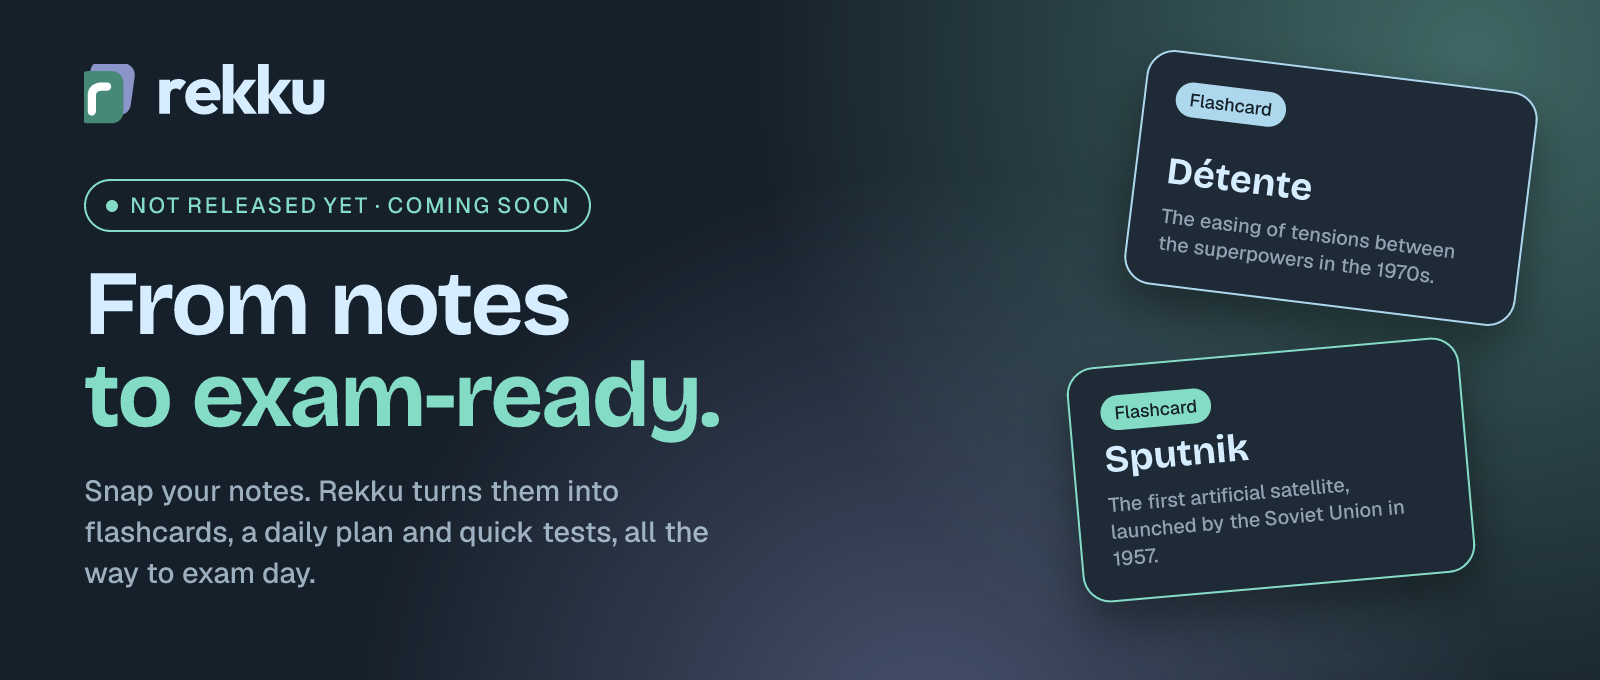
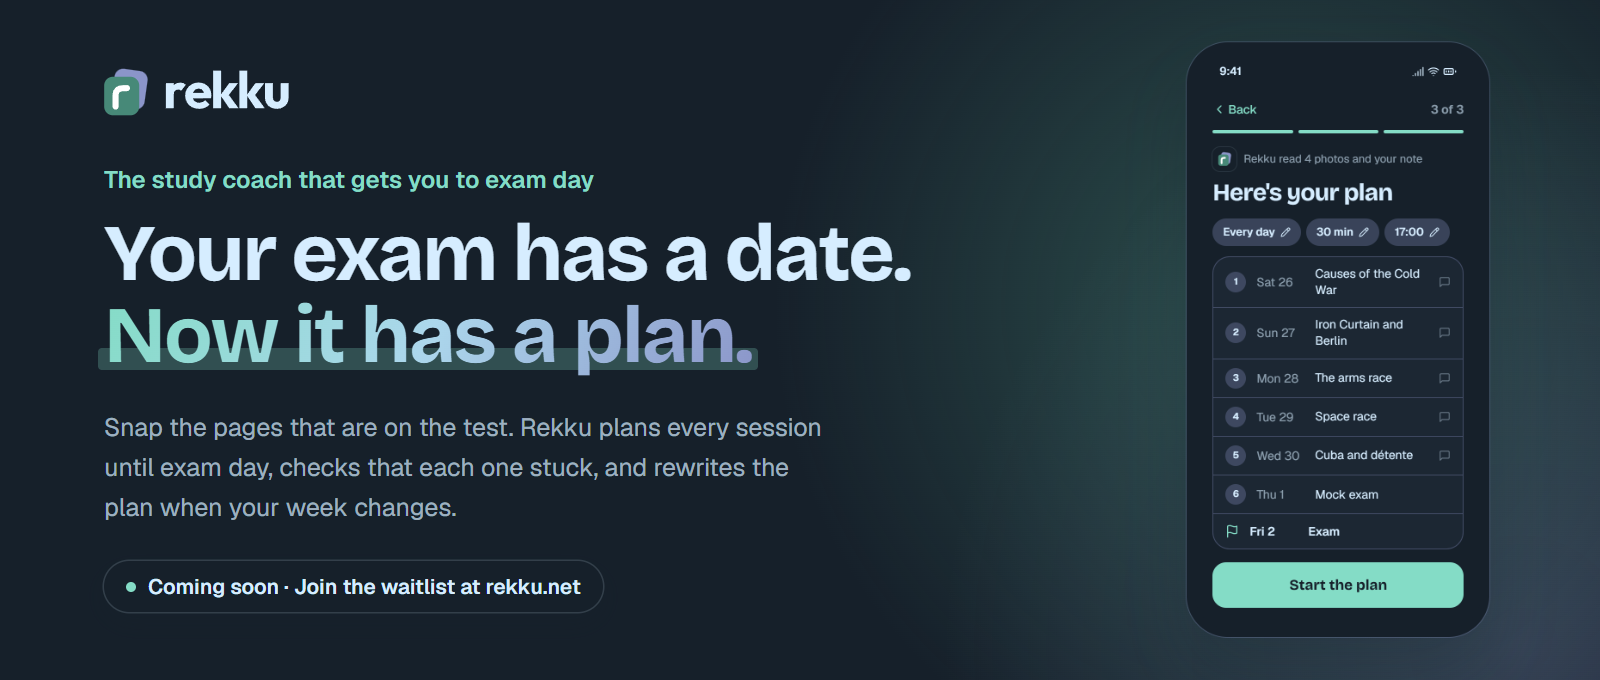
docs: update hero to match new landing page

diff --git a/profile/README.md b/profile/README.md
@@ -1,6 +1,6 @@
 <picture>
   <source media="(prefers-color-scheme: dark)" srcset="assets/hero-dark.png">
-  <img alt="Rekku: from notes to exam-ready. Not released yet, coming soon." src="assets/hero-light.png" width="100%">
+  <img alt="Rekku, the study coach that gets you to exam day. Your exam has a date. Now it has a plan. Coming soon, join the waitlist at rekku.net." src="assets/hero-light.png" width="100%">
 </picture>
 
 <p align="center">
